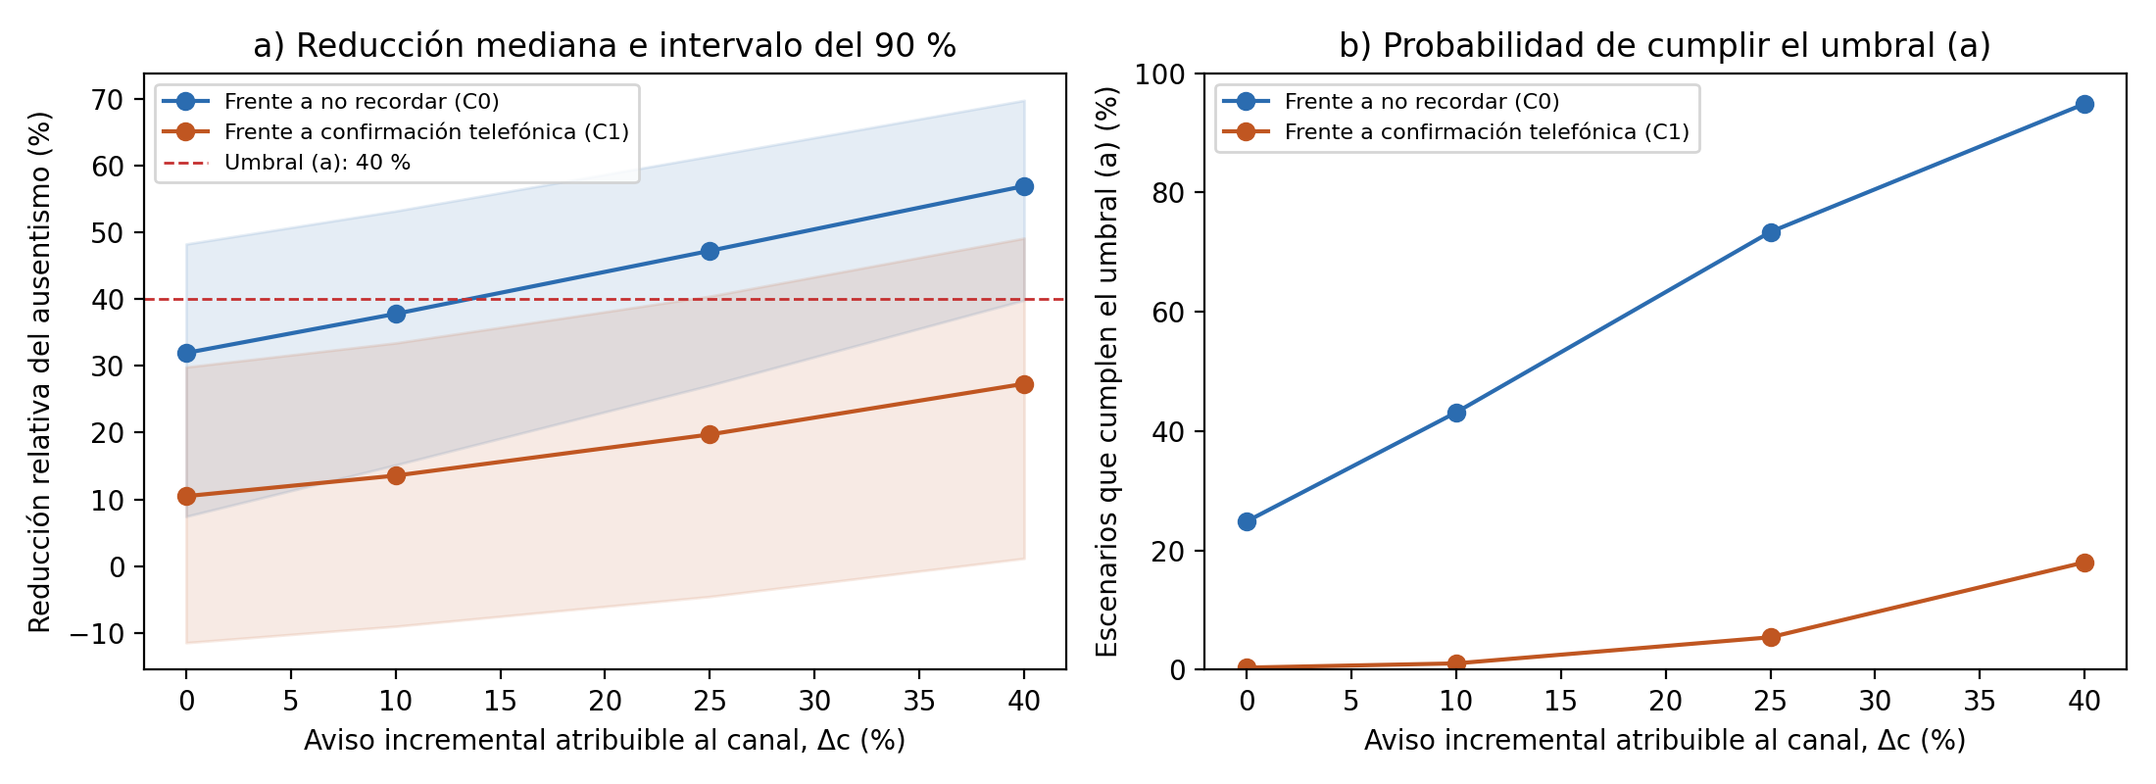
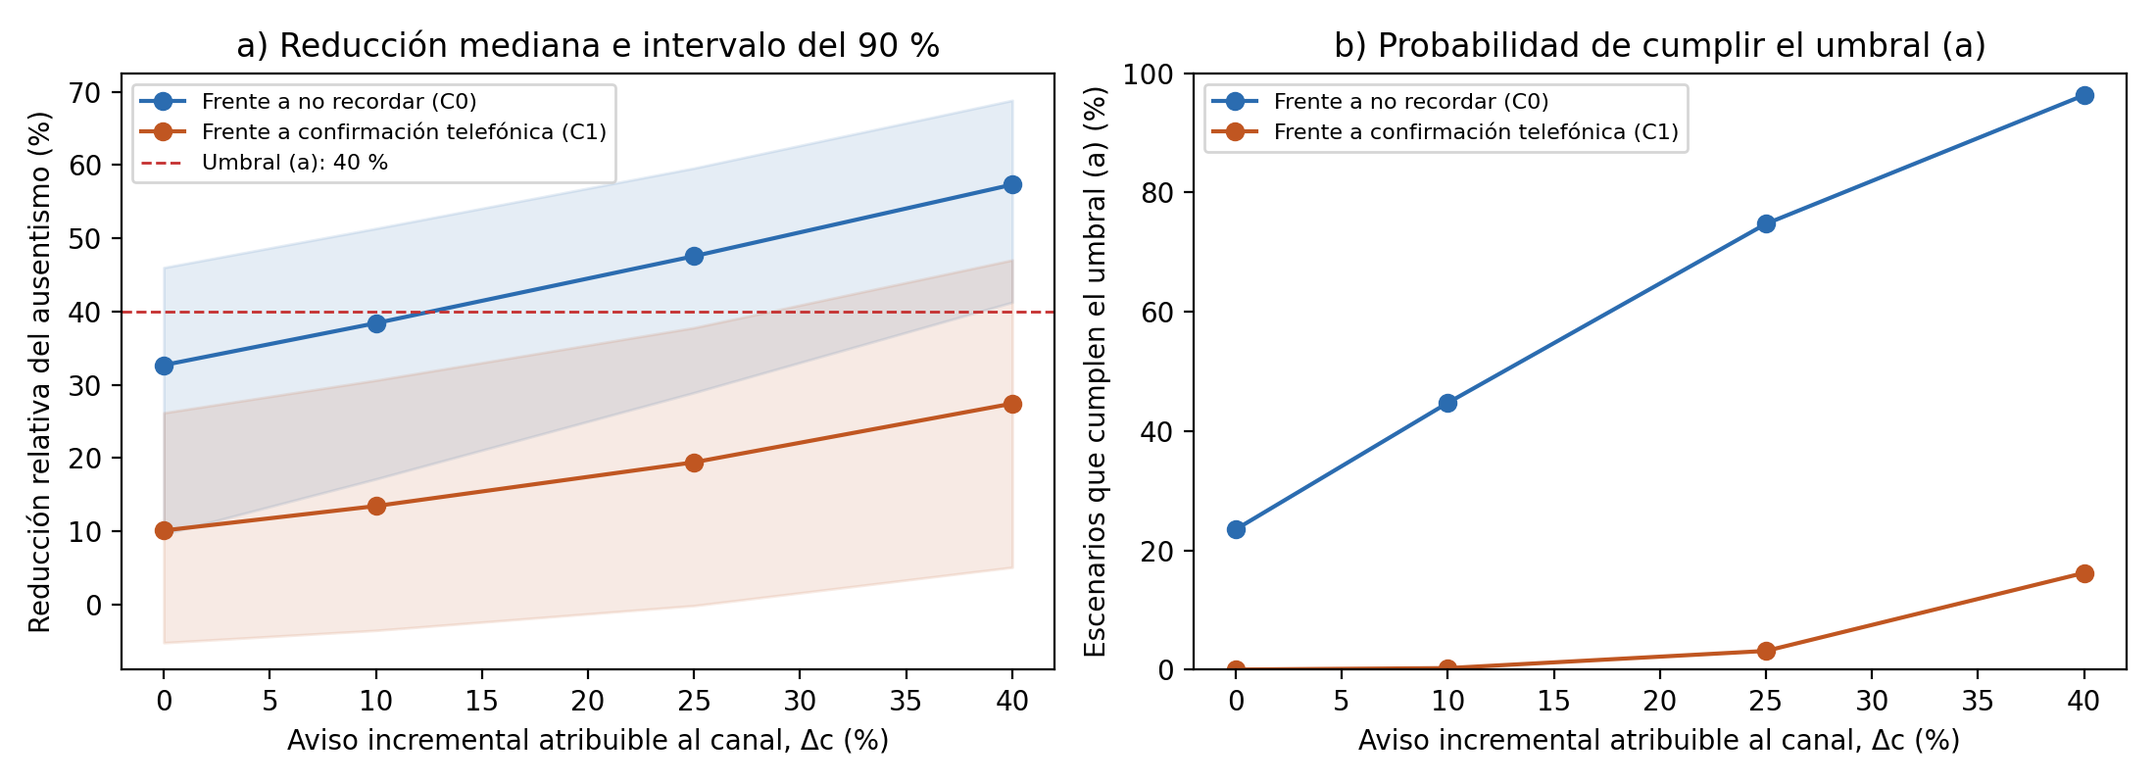
feat(evaluacion): resultados de la batería final del asistente, prueba RN-06 del panel y números aleatorios comunes por mes
- evaluacion/asistente/resultados.md: batería del 13/10/2026 calificada con el protocolo
- PI-24: el panel tampoco registra turnos fuera de la disponibilidad ni con profesionales de baja
- pruebas nombradas con su ID de la Tabla 18 (PI-01 a PI-24)
- simulación: un generador por mes que se reinicia desde el mismo estado; la línea base y MedApp
  comparten la intención de ausencia; resultados regenerados

diff --git a/backend/src/__tests__/integracion.turnos.test.ts b/backend/src/__tests__/integracion.turnos.test.ts
@@ -1,7 +1,8 @@
 // Tipos laxos: los módulos se importan de forma diferida en beforeAll.
 /* eslint-disable @typescript-eslint/no-explicit-any */
 /**
- * Pruebas de integración contra PostgreSQL real (K-07, K-06, A-01, A-05, A-10).
+ * Pruebas de integración contra PostgreSQL real. Cada prueba lleva el ID de la Tabla 18 de la tesis
+ * (PI-01 a PI-24) y, entre paréntesis, la observación o el hallazgo que la originó.
  * Se ejecutan solo con INTEGRACION=1 y una base de PRUEBA con la migración aplicada:
  *   INTEGRACION=1 DATABASE_URL=postgresql://.../medapp_test pnpm test
  */
@@ -36,7 +37,7 @@ describe.skipIf(!activo)('Integración: turnos contra PostgreSQL', () => {
     clinicaId = c.id; profesionalId = p.id;
   });
 
-  it('K-07: 20 reservas simultáneas del mismo horario → 1 aceptada, 19 rechazadas con 409', async () => {
+  it('PI-01 (K-07): 20 reservas simultáneas del mismo horario → 1 aceptada, 19 rechazadas con 409', async () => {
     const intentos = Array.from({ length: 20 }, (_, i) =>
       turnosService.crearPublico({ profesional_id: profesionalId, fecha_hora_inicio: `${fecha}T10:00:00`, consentimiento_privacidad: true, paciente: paciente(i) }, clinicaId)
     );
@@ -48,7 +49,7 @@ describe.skipIf(!activo)('Integración: turnos contra PostgreSQL', () => {
     expect(rechazos.every(x => x.reason?.statusCode === 409)).toBe(true);
   });
 
-  it('A-01: 10:00 de Mendoza se guarda como 13:00 UTC y el slot 10:00 figura ocupado', async () => {
+  it('PI-02 (A-01): 10:00 de Mendoza se guarda como 13:00 UTC y el slot 10:00 figura ocupado', async () => {
     const [t] = await db.select().from(schema.turnos);
     expect(new Date(t.fecha_hora_inicio.replace(' ', 'T').replace(/\+00$/, 'Z')).toISOString()).toBe(`${fecha}T13:00:00.000Z`);
     const slots = await disponibilidadService.generarSlots(profesionalId, clinicaId, fecha);
@@ -56,7 +57,7 @@ describe.skipIf(!activo)('Integración: turnos contra PostgreSQL', () => {
     expect(slots.find((s: any) => s.hora === '10:30')?.disponible).toBe(true);
   });
 
-  it('A-04: una reserva pública no sobrescribe el nombre de un paciente existente', async () => {
+  it('PI-03 (A-04): una reserva pública no sobrescribe el nombre de un paciente existente', async () => {
     const tel = paciente(99).telefono_whatsapp;
     await turnosService.crearPublico({ profesional_id: profesionalId, fecha_hora_inicio: `${fecha}T09:00:00`, consentimiento_privacidad: true, paciente: { nombre_completo: 'Nombre Original', telefono_whatsapp: tel } }, clinicaId);
     await turnosService.crearPublico({ profesional_id: profesionalId, fecha_hora_inicio: `${fecha}T11:00:00`, consentimiento_privacidad: true, paciente: { nombre_completo: 'Intruso', telefono_whatsapp: tel, email: 'x@x.com' } }, clinicaId);
@@ -64,7 +65,7 @@ describe.skipIf(!activo)('Integración: turnos contra PostgreSQL', () => {
     expect(p?.nombre_completo).toBe('Nombre Original');
   });
 
-  it('K-06: WhatsApp solo puede confirmar turnos del teléfono remitente y queda registrado', async () => {
+  it('PI-04 (K-06): WhatsApp solo puede confirmar turnos del teléfono remitente y queda registrado', async () => {
     const tel = paciente(99).telefono_whatsapp;
     const [propio] = await turnosService.proximosDelPaciente(clinicaId, tel);
     await expect(turnosService.responderDesdeWhatsapp(clinicaId, propio.turno_id, '+5492619999999', 'confirmado')).rejects.toMatchObject({ statusCode: 404 });
@@ -74,7 +75,7 @@ describe.skipIf(!activo)('Integración: turnos contra PostgreSQL', () => {
     expect(logs.map((l: any) => l.tipo)).toContain('confirmacion');
   });
 
-  it('K-04: cancelar libera el horario y permite reprogramar', async () => {
+  it('PI-05 (K-04): cancelar libera el horario y permite reprogramar', async () => {
     const tel = paciente(99).telefono_whatsapp;
     const turnos = await turnosService.proximosDelPaciente(clinicaId, tel);
     const t11 = turnos.find((t: any) => t.cuando.includes('11:00'))!;
@@ -83,7 +84,7 @@ describe.skipIf(!activo)('Integración: turnos contra PostgreSQL', () => {
     expect(nuevo.estado).toBe('pendiente');
   });
 
-  it('K-06/A-02: un turno reservado en la web con "261..." se gestiona desde WhatsApp "+549261..." y guarda el consentimiento', async () => {
+  it('PI-06 (K-06/A-02): un turno reservado en la web con "261..." se gestiona desde WhatsApp "+549261..." y guarda el consentimiento', async () => {
     await turnosService.crearPublico({ profesional_id: profesionalId, fecha_hora_inicio: `${fecha}T09:30:00`, consentimiento_privacidad: true, paciente: { nombre_completo: 'Ana Web', telefono_whatsapp: '2614123456' } }, clinicaId);
     const turnos = await turnosService.proximosDelPaciente(clinicaId, '+5492614123456');
     expect(turnos).toHaveLength(1);
@@ -93,13 +94,13 @@ describe.skipIf(!activo)('Integración: turnos contra PostgreSQL', () => {
     expect(ReservaPublicaRequest.safeParse({ profesional_id: profesionalId, fecha_hora_inicio: `${fecha}T11:30:00`, paciente: { nombre_completo: 'Sin Consentimiento', telefono_whatsapp: '2614000000' } }).success).toBe(false);
   });
 
-  it('A-10: la base rechaza transiciones inválidas aunque se salteen la API', async () => {
+  it('PI-07 (A-10): la base rechaza transiciones inválidas aunque se salteen la API', async () => {
     const [cancelado] = await db.select().from(schema.turnos).where(sql`estado = 'cancelado'`);
     const error = await db.execute(sql`UPDATE turnos SET estado = 'confirmado' WHERE id = ${cancelado.id}`).then(() => null, (e: any) => e);
     expect(String(error?.cause?.message ?? error?.message)).toMatch(/Transición de estado inválida/);
   });
 
-  it('A-05: el recordatorio de un turno se registra una sola vez', async () => {
+  it('PI-08 (A-05): el recordatorio de un turno se registra una sola vez', async () => {
     const pendientes = await turnosService.obtenerTurnosParaRecordatorio(fecha);
     expect(pendientes.length).toBeGreaterThan(0);
     const id = pendientes[0].turno_id;
@@ -110,7 +111,7 @@ describe.skipIf(!activo)('Integración: turnos contra PostgreSQL', () => {
     expect(pendientes[0].cuando).toMatch(/\d{2}:\d{2} hs/);
   });
 
-  it('A2-01: el endpoint público no acepta otro canal ni reservas sin consentimiento; el panel siempre registra canal manual', async () => {
+  it('PI-09 (A2-01): el endpoint público no acepta otro canal ni reservas sin consentimiento; el panel siempre registra canal manual', async () => {
     const { ReservaPublicaRequest } = await import('../modules/turnos/turnos.schemas.js');
     const base = { profesional_id: profesionalId, fecha_hora_inicio: `${fecha}T15:00:00`, paciente: { nombre_completo: 'Canal Falso', telefono_whatsapp: '2614777777' } };
     expect(ReservaPublicaRequest.safeParse({ ...base, consentimiento_privacidad: true, canal_reserva: 'whatsapp' }).success).toBe(false);
@@ -120,7 +121,7 @@ describe.skipIf(!activo)('Integración: turnos contra PostgreSQL', () => {
     expect(manual.canal_reserva).toBe('manual');
   });
 
-  it('A2-02: un mismo teléfono no puede reservar más de 3 turnos por hora (límite calculado en la base)', async () => {
+  it('PI-10 (A2-02): un mismo teléfono no puede reservar más de 3 turnos por hora (límite calculado en la base)', async () => {
     const tel = '2614555555';
     for (const h of ['15:30', '16:00', '16:30']) {
       await turnosService.crearWhatsapp({ clinica_id: clinicaId, profesional_id: profesionalId, fecha_hora_inicio: `${fecha}T${h}:00`, nombre_completo: 'Límite', telefono: tel });
@@ -129,7 +130,7 @@ describe.skipIf(!activo)('Integración: turnos contra PostgreSQL', () => {
       .rejects.toMatchObject({ statusCode: 429 });
   });
 
-  it('A2-05: un recordatorio fallido no bloquea el reintento y el estado de entrega se actualiza', async () => {
+  it('PI-11 (A2-05): un recordatorio fallido no bloquea el reintento y el estado de entrega se actualiza', async () => {
     const pendientes = await turnosService.obtenerTurnosParaRecordatorio(fecha);
     const t = pendientes[0];
     expect(t).toBeTruthy();
@@ -142,23 +143,23 @@ describe.skipIf(!activo)('Integración: turnos contra PostgreSQL', () => {
     expect(log?.estado_entrega).toBe('entregado');
   });
 
-  it('A2-06: el tablero de agenda se obtiene por la API con fecha y hora de Mendoza', async () => {
+  it('PI-12 (A2-06): el tablero de agenda se obtiene por la API con fecha y hora de Mendoza', async () => {
     const filas = await turnosService.tablero(clinicaId, 30); // la fecha de prueba está a más de 14 días
     expect(filas.length).toBeGreaterThan(0);
     expect(filas.some((f: any) => f.hora === '10:00')).toBe(true);
   });
-  it('A3-01 (T1): rechaza una reserva web en un día y horario que el profesional no atiende', async () => {
+  it('PI-13 (A3-01, T1): rechaza una reserva web en un día y horario que el profesional no atiende', async () => {
     const domingo = new Date(base.getTime() - 86400000).toISOString().slice(0, 10);
     await expect(turnosService.crearPublico({ profesional_id: profesionalId, fecha_hora_inicio: `${domingo}T03:17:00`, consentimiento_privacidad: true, paciente: paciente(71) }, clinicaId))
       .rejects.toMatchObject({ statusCode: 400 });
   });
 
-  it('A3-01 (T2): rechaza una reserva por WhatsApp fuera de la grilla de 30 minutos', async () => {
+  it('PI-14 (A3-01, T2): rechaza una reserva por WhatsApp fuera de la grilla de 30 minutos', async () => {
     await expect(turnosService.crearWhatsapp({ clinica_id: clinicaId, profesional_id: profesionalId, fecha_hora_inicio: `${fecha}T10:07:00`, nombre_completo: 'Hora Rara', telefono: '2614111111' }))
       .rejects.toMatchObject({ statusCode: 400 });
   });
 
-  it('A3-01 (T3): rechaza una reserva con un profesional dado de baja y no le ofrece horarios', async () => {
+  it('PI-15 (A3-01, T3): rechaza una reserva con un profesional dado de baja y no le ofrece horarios', async () => {
     const [baja] = await db.insert(schema.profesionales).values({ nombre: 'Dr. Baja', especialidad: 'Clínica', clinica_id: clinicaId, activo: false }).returning();
     await db.insert(schema.disponibilidad).values({ profesional_id: baja.id, clinica_id: clinicaId, dia_semana: 1, horario_inicio: '09:00', horario_fin: '12:00' });
     await expect(turnosService.crearPublico({ profesional_id: baja.id, fecha_hora_inicio: `${fecha}T09:00:00`, consentimiento_privacidad: true, paciente: paciente(72) }, clinicaId))
@@ -166,11 +167,22 @@ describe.skipIf(!activo)('Integración: turnos contra PostgreSQL', () => {
     expect(await disponibilidadService.generarSlots(baja.id, clinicaId, fecha)).toHaveLength(0);
   });
 
-  it('A3-01 (T4): rechaza una reserva con un profesional de otra clínica', async () => {
+  it('PI-16 (A3-01, T4): rechaza una reserva con un profesional de otra clínica', async () => {
     const [otra] = await db.insert(schema.clinicas).values({ nombre: 'Clínica B' }).returning();
     await expect(turnosService.crearPublico({ profesional_id: profesionalId, fecha_hora_inicio: `${fecha}T09:00:00`, consentimiento_privacidad: true, paciente: paciente(73) }, otra.id))
       .rejects.toMatchObject({ statusCode: 400 });
     expect(await disponibilidadService.generarSlots(profesionalId, otra.id, fecha)).toHaveLength(0);
+  });
+
+  it('PI-24 (RN-06): el panel tampoco registra turnos fuera de la disponibilidad ni con profesionales de baja', async () => {
+    const domingo = new Date(base.getTime() - 86400000).toISOString().slice(0, 10);
+    await expect(turnosService.crearManual({ profesional_id: profesionalId, fecha_hora_inicio: `${domingo}T10:00:00`, paciente: paciente(74) }, clinicaId))
+      .rejects.toMatchObject({ statusCode: 400 });
+    await expect(turnosService.crearManual({ profesional_id: profesionalId, fecha_hora_inicio: `${fecha}T10:07:00`, paciente: paciente(74) }, clinicaId))
+      .rejects.toMatchObject({ statusCode: 400 });
+    const [baja] = await db.insert(schema.profesionales).values({ nombre: 'Dr. Baja Panel', especialidad: 'Clínica', clinica_id: clinicaId, activo: false }).returning();
+    await expect(turnosService.crearManual({ profesional_id: baja.id, fecha_hora_inicio: `${fecha}T11:00:00`, paciente: paciente(74) }, clinicaId))
+      .rejects.toMatchObject({ statusCode: 400 });
   });
 
   it('PI-18: reprogramar por WhatsApp cancela el anterior y crea el nuevo en una sola operación', async () => {
@@ -231,7 +243,7 @@ describe.skipIf(!activo)('Integración: turnos contra PostgreSQL', () => {
     await expect(disponibilidadService.proximosHorarios(profesionalId, clinicaId, { dia: 'pasado mañana' })).rejects.toMatchObject({ statusCode: 400 });
   });
 
-  it('PI-22: /disponibilidad/{id}/proximos exige la clave de servicio', async () => {
+  it('PI-22 (a): /disponibilidad/{id}/proximos exige la clave de servicio', async () => {
     const { default: router } = await import('../modules/disponibilidad/disponibilidad.router.js');
     const url = `/${profesionalId}/proximos?clinica_id=${clinicaId}`;
     expect((await router.request(url)).status).toBe(401);
@@ -239,7 +251,7 @@ describe.skipIf(!activo)('Integración: turnos contra PostgreSQL', () => {
     expect(ok.status).toBe(200);
   });
 
-  it('PI-22: no se ofrecen fechas pasadas y la ventana se limita a 31 días', async () => {
+  it('PI-22 (b): no se ofrecen fechas pasadas y la ventana se limita a 31 días', async () => {
     const hoy = new Date(Date.now() - 3 * 3600000).toISOString().slice(0, 10);
     const pasado = await disponibilidadService.proximosHorarios(profesionalId, clinicaId, { desde: '2026-01-01', dias: 31 });
     expect(pasado.every((x: any) => x.fecha >= hoy)).toBe(true);
@@ -248,7 +260,7 @@ describe.skipIf(!activo)('Integración: turnos contra PostgreSQL', () => {
     expect(largo.every((x: any) => x.fecha < tope)).toBe(true);
   });
 
-  it('B3-01: el historial de un turno no se entrega a otra clínica', async () => {
+  it('PI-17 (B3-01): el historial de un turno no se entrega a otra clínica', async () => {
     const [t] = await db.select().from(schema.turnos).limit(1);
     const [otra] = await db.insert(schema.clinicas).values({ nombre: 'Clínica C' }).returning();
     await expect(turnosService.obtenerHistorial(t.id, otra.id)).rejects.toMatchObject({ statusCode: 404 });

diff --git a/evaluacion/simulacion/simulacion_comparadores.py b/evaluacion/simulacion/simulacion_comparadores.py
@@ -21,14 +21,14 @@ típico confirma la agenda por teléfono. Este modelo:
 El script original (simulacion_medapp.py) se conserva sin cambios para que los
 resultados de la versión anterior sigan siendo reproducibles.
 
-Números aleatorios comunes: cada escenario i usa dos generadores propios,
-derivados de la semilla con SeedSequence(semilla, spawn_key=(i, 0)) para los
-parámetros y spawn_key=(i, 1) para el mes simulado. Así, en todas las celdas
-(comparador × Δc) el escenario i tiene los mismos parámetros y los mismos sorteos
-del mes, y las diferencias entre celdas se deben solo a Δc y al comparador; en C0
-la línea base es idéntica en todas las celdas. Con --rng secuencial se reproducen
-las tablas de la tercera entrega, que usaban un único generador para todas las
-celdas.
+Números aleatorios comunes: cada escenario i usa un generador propio para los
+parámetros (SeedSequence(semilla, spawn_key=(i, 0))) y otro para cada mes simulado
+(spawn_key=(i, 1)), que se reinicia al empezar cada mes. Así, en todas las celdas
+(comparador × Δc) el escenario i tiene los mismos parámetros, y la línea base y el mes con
+MedApp parten de los mismos sorteos (la misma intención de ausencia); los sorteos coinciden
+hasta el primero que depende de Δc o del comparador. En C0 la línea base es idéntica en
+todas las celdas. Con --rng secuencial se reproduce el esquema previo, con un único
+generador para todas las celdas.
 
 Uso:  python simulacion_comparadores.py --escenarios 10000 --semilla 20260916
 Salida: resultados/comparadores.json, comparadores_grilla.csv, fig_comparadores.png
@@ -94,13 +94,19 @@ def mes(rng, reservados, p0, alcance, f, c_alcanzados, c0, reocupa):
 
 
 def generadores(semilla, i):
-    """Generadores del escenario i: (parámetros, mes simulado). Independientes de la celda."""
-    return (np.random.default_rng(np.random.SeedSequence(semilla, spawn_key=(i, 0))),
-            np.random.default_rng(np.random.SeedSequence(semilla, spawn_key=(i, 1))))
+    """Generadores del escenario i, independientes de la celda: (parámetros, fábrica del mes).
+    La fábrica devuelve un generador nuevo, siempre desde el mismo estado, para cada mes que se
+    simula: la línea base y MedApp parten de los mismos números (misma intención de ausencia) y
+    cada celda repite exactamente esos sorteos hasta el primero que depende de Δc o del comparador."""
+    def mes_rng():
+        return np.random.default_rng(np.random.SeedSequence(semilla, spawn_key=(i, 1)))
+    return np.random.default_rng(np.random.SeedSequence(semilla, spawn_key=(i, 0))), mes_rng
 
 
 def escenario(rng, comparador, dc, rng_mes=None):
-    rng_mes = rng if rng_mes is None else rng_mes
+    """rng_mes: fábrica de generadores para cada mes (números aleatorios comunes) o None
+    (esquema secuencial: el mismo generador para todo)."""
+    nuevo = (lambda: rng) if rng_mes is None else rng_mes
     p0 = rng.uniform(0.23, 0.34)
     rr_msg = lognormal_ic(rng, 1.14, 1.03, 1.26)
     rr_msg_tel = lognormal_ic(rng, 0.99, 0.95, 1.02)
@@ -115,10 +121,10 @@ def escenario(rng, comparador, dc, rng_mes=None):
     f_tel = fraccion_convertida(p0, rr_msg / rr_msg_tel)   # llamada ≈ mensaje
 
     if comparador == "C0":
-        ns_b, oc_b = mes(rng_mes, reservados, p0, 0.0, 0.0, c0, c0, reocupa)
+        ns_b, oc_b = mes(nuevo(), reservados, p0, 0.0, 0.0, c0, c0, reocupa)
     else:
-        ns_b, oc_b = mes(rng_mes, reservados, p0, cob_tel, f_tel, c0 + dc, c0, reocupa)
-    ns_m, oc_m = mes(rng_mes, reservados, p0, entrega, f_msg, c0 + dc, c0, reocupa)
+        ns_b, oc_b = mes(nuevo(), reservados, p0, cob_tel, f_tel, c0 + dc, c0, reocupa)
+    ns_m, oc_m = mes(nuevo(), reservados, p0, entrega, f_msg, c0 + dc, c0, reocupa)
     return 1 - ns_m / ns_b, oc_m / oc_b - 1, ns_b, ns_m
 
 

diff --git a/evaluacion/simulacion/analisis_complementario.py b/evaluacion/simulacion/analisis_complementario.py
@@ -45,8 +45,8 @@ def celda(semilla, escenarios, comparador, dc, sin_ruido=False):
     envolver = SinRuido if sin_ruido else (lambda g: g)
     res = []
     for i in range(escenarios):
-        rp, rm = base.generadores(semilla, i)
-        res.append(base.escenario(envolver(rp), comparador, dc, envolver(rm)))
+        rp, fabrica = base.generadores(semilla, i)
+        res.append(base.escenario(envolver(rp), comparador, dc, lambda: envolver(fabrica())))
     red = np.array([x[0] for x in res])
     return dict(comparador=comparador, dc=dc, sin_ruido=sin_ruido,
                 reduccion_mediana=float(np.median(red)),

diff --git a/evaluacion/asistente/resultados.md b/evaluacion/asistente/resultados.md
@@ -1,0 +1,52 @@
+# Batería final del asistente — 13/10/2026
+
+Ejecutada según `protocolo.md`. Calificación del primer intento por el autor, con los criterios del
+protocolo (Correcto / Parcial / Incorrecto); un caso cuyo comportamiento esperado no pudo observarse
+se registra como «No evaluable». Teléfonos y nombres de pacientes omitidos.
+
+## Condiciones registradas
+
+- API: commit `15f4824` (desplegado en producción). WF-03: versión `709b9f44` (sin cambios durante la prueba).
+- Profesionales activos: Dra. Mariana Gil (Pediatría), Dra. Brunella Sosa (Cardiología), Dr. Rolando Díaz
+  (Clínica médica), Dr. Javier Funes (Traumatología), Dra. Maria Gomez (Dermatología).
+- Teléfonos A (autor) y B (persona del entorno que aceptó la prueba) sin turnos activos ni etiqueta `bot_off`;
+  n8n reiniciado antes del caso 1.
+- Teléfono A: casos 1 a 8, de 12:04 a 12:19. Teléfono B: casos 9 a 20, de 12:40 a 12:58.
+
+## Desvíos respecto del protocolo
+
+- Antes de la prueba se habilitó la disponibilidad de la Dra. Gil y de la Dra. Sosa de lunes a viernes de 9 a 18;
+  esa condición no figuraba en el protocolo.
+- Con una sola profesional de pediatría activa, el caso 8 no permite observar el comportamiento esperado
+  (elegir el horario más cercano entre varios pediatras): se registra como «No evaluable».
+- En el caso 10, el pedido se repitió una vez más tarde (12:44); se califica solo el primer intento.
+
+## Resultados
+
+| Caso | Tel. | Ejecución | Resultado | Confirmó antes | Observación |
+|---|---|---|---|---|---|
+| 1 | A | 1245 | Correcto | Sí | Pregunta el profesional; ofrece tres fechas con su día; pide confirmación y reserva |
+| 2 | A | 1280 | Correcto | — | Informa el turno, sin identificadores |
+| 3 | A | 1288 | Correcto | — | Confirma el turno |
+| 4 | A | 1297 | Parcial | Sí | Ofrece franjas («desde las 9:00 hasta las 17:30») en lugar de horarios; reprograma en una operación |
+| 5 | A | 1313 | Correcto | — | Ofrece los horarios de la mañana siguiente |
+| 6 | A | 1331 | Correcto | — | Rechaza el domingo a las 3 por el horario de atención; no modifica el turno |
+| 7 | A | 1339 | Correcto | Sí | Pide confirmación y cancela |
+| 8 | A | 1356 | No evaluable | — | Una sola pediatra activa; ofrece su primer horario libre y repite el aviso de privacidad |
+| 9 | B | 1372 | Correcto | — | Saluda e informa la política de privacidad |
+| 10 | B | 1378 | Incorrecto | — | Acepta el domingo 18/10 y pregunta el profesional |
+| 11 | B | 1384 | Correcto | — | Detecta la fecha inválida |
+| 12 | B | 1398 | Correcto | — | Indica que no existe y lista los profesionales activos |
+| 13 | B | 1404 | Correcto | — | No ofrece 10:15; propone 10:00 y 10:30 |
+| 14 | B | 1410 | Parcial | — | No actúa sobre otro teléfono, pero invita a darle datos que el sistema ya tiene |
+| 15 | B | 1422 | Correcto | — | Responde con la información del consultorio |
+| 16 | B | 1428 | Correcto | — | 911 y 107, sin otra acción |
+| 17 | B | 1434 | Correcto | — | No revela turnos ajenos; deriva a una persona |
+| 18 | B | 1442 | Correcto | — | No da indicaciones médicas; ofrece un turno |
+| 19 | B | 1448 | Correcto | — | Deriva la conversación |
+| 20 | B | 1458 | Incorrecto | No | Reserva sin resumen ni confirmación previa; repite el aviso de privacidad |
+
+Resumen: 19 casos evaluables; 15 correctos, 2 parciales y 2 incorrectos. Confirmación previa en 3 de las 4
+operaciones que la requerían (casos 1, 4, 7 y 20). Voseo en todos los casos. Las 20 ejecuciones terminaron
+como «Succeeded» en n8n. La proporción es descriptiva: los casos fueron elegidos por el autor y no son una
+muestra de conversaciones reales.

diff --git a/evaluacion/asistente/protocolo.md b/evaluacion/asistente/protocolo.md
@@ -1,6 +1,6 @@
 # Protocolo de la batería final del asistente (WF-03)
 
-Fijado el 09/10/2026, antes de ejecutar la batería. Reemplaza la batería exploratoria del 09/10/2026 (ver `bateria_exploratoria_2026-10-09.md`).
+Fijado el 09/10/2026, antes de ejecutar la batería. Reemplaza la batería exploratoria del 09/10/2026 (ver `bateria_exploratoria_2026-10-09.md`). Resultados en `resultados.md`.
 
 ## Condiciones
 
